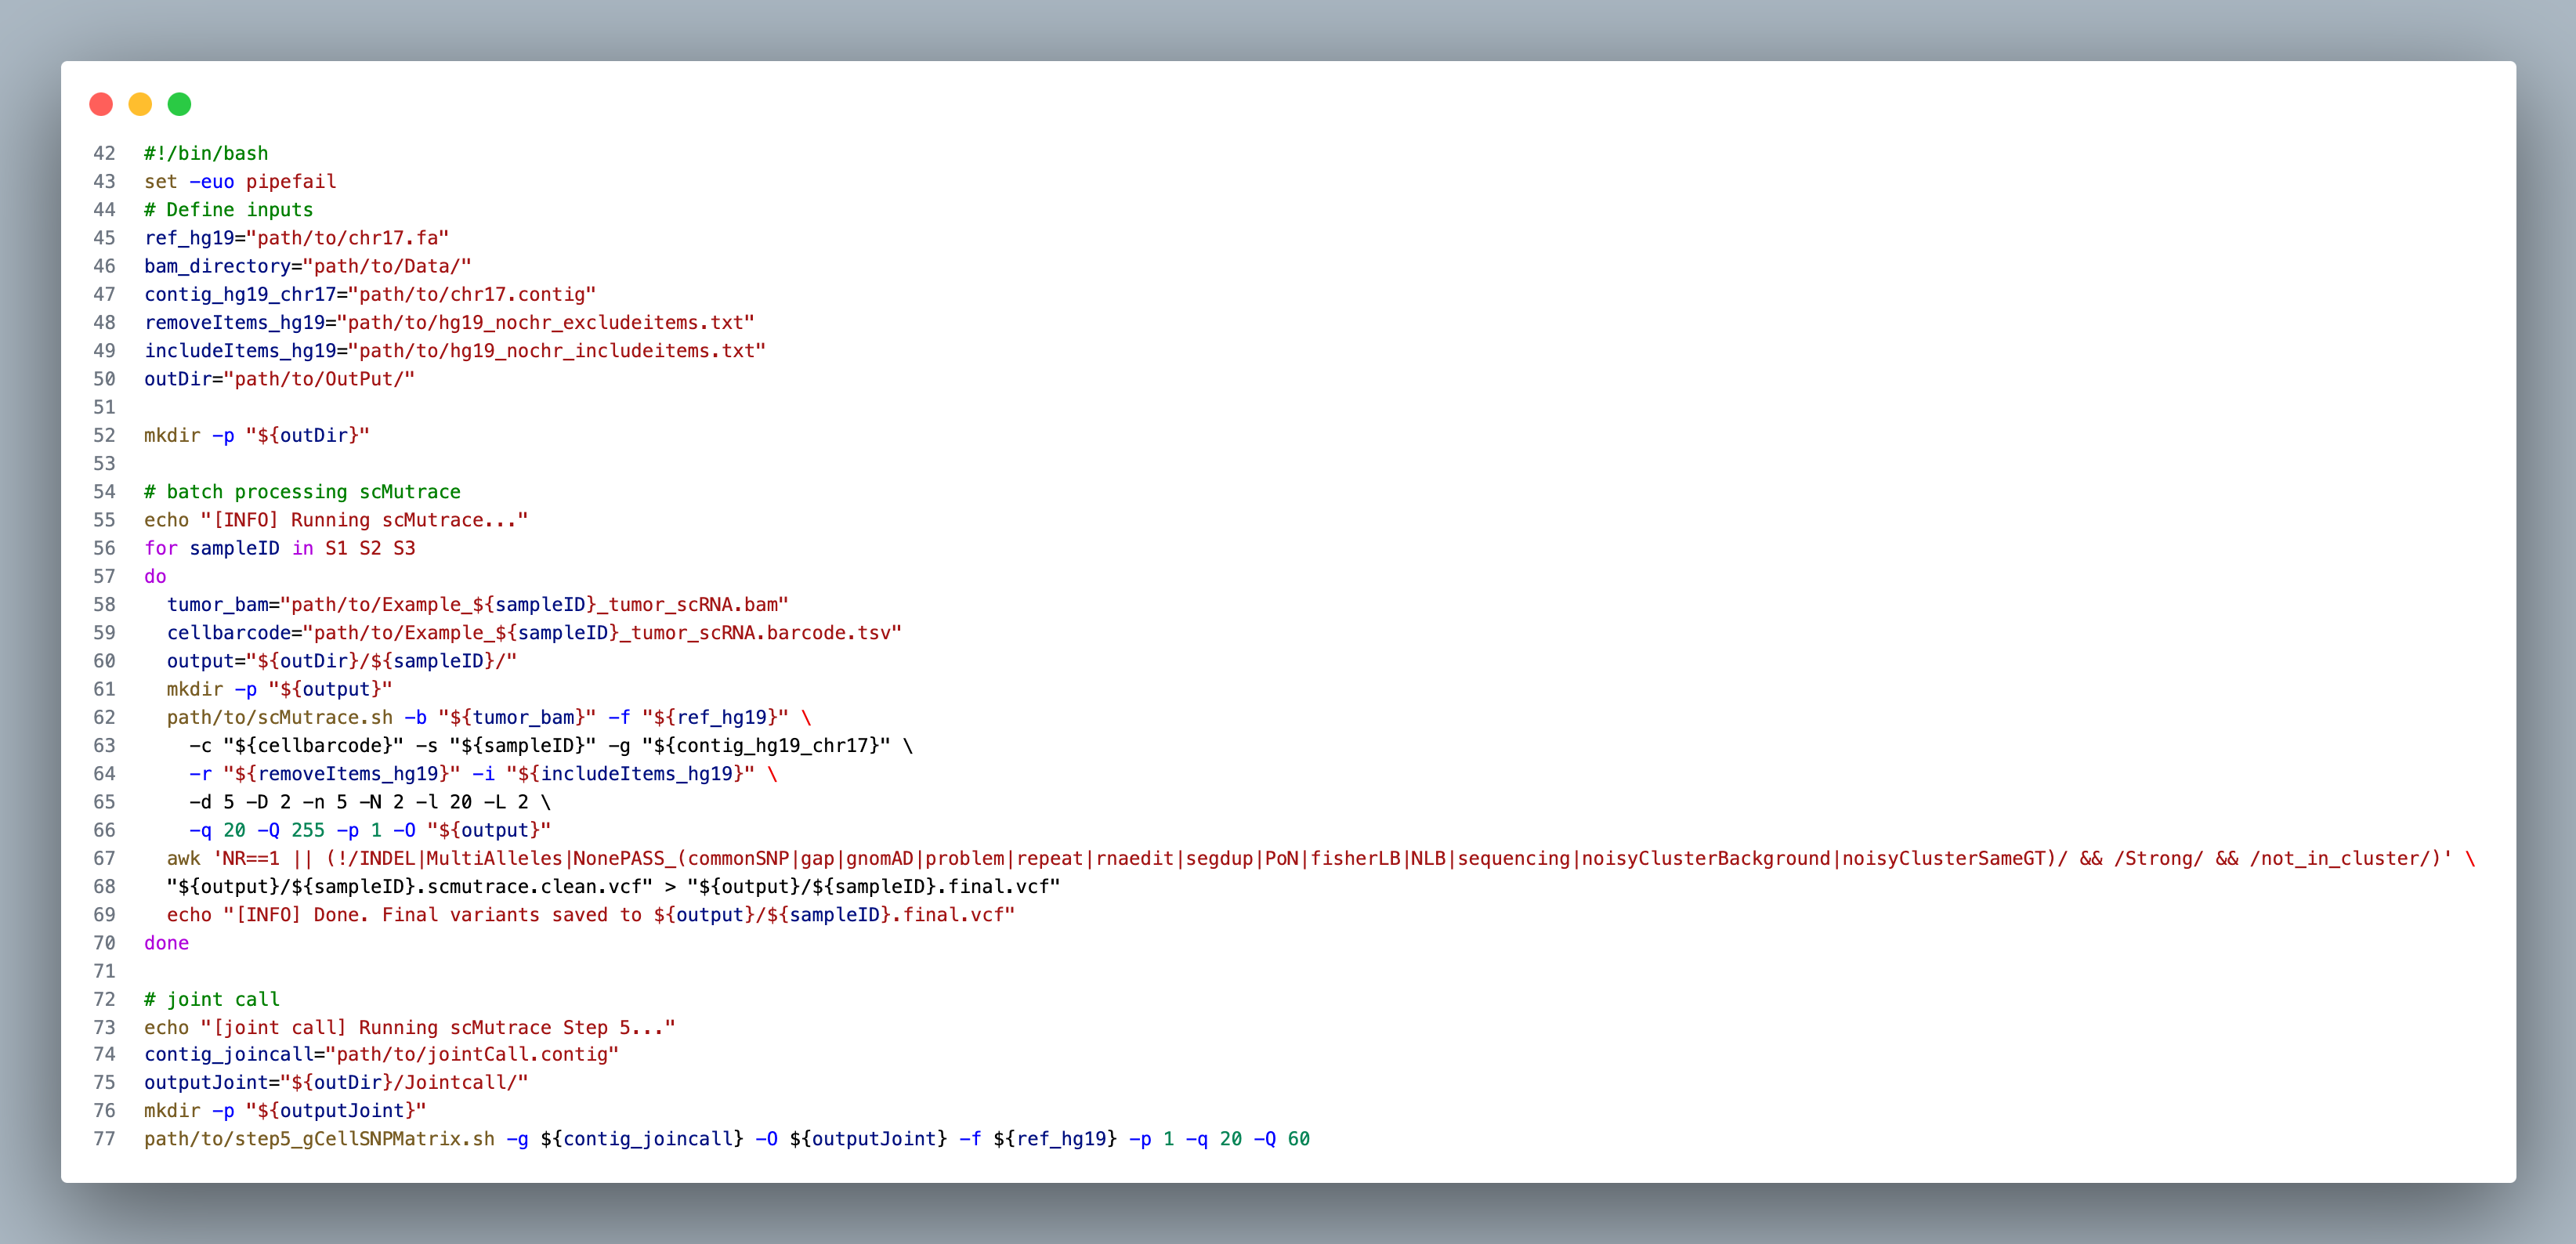
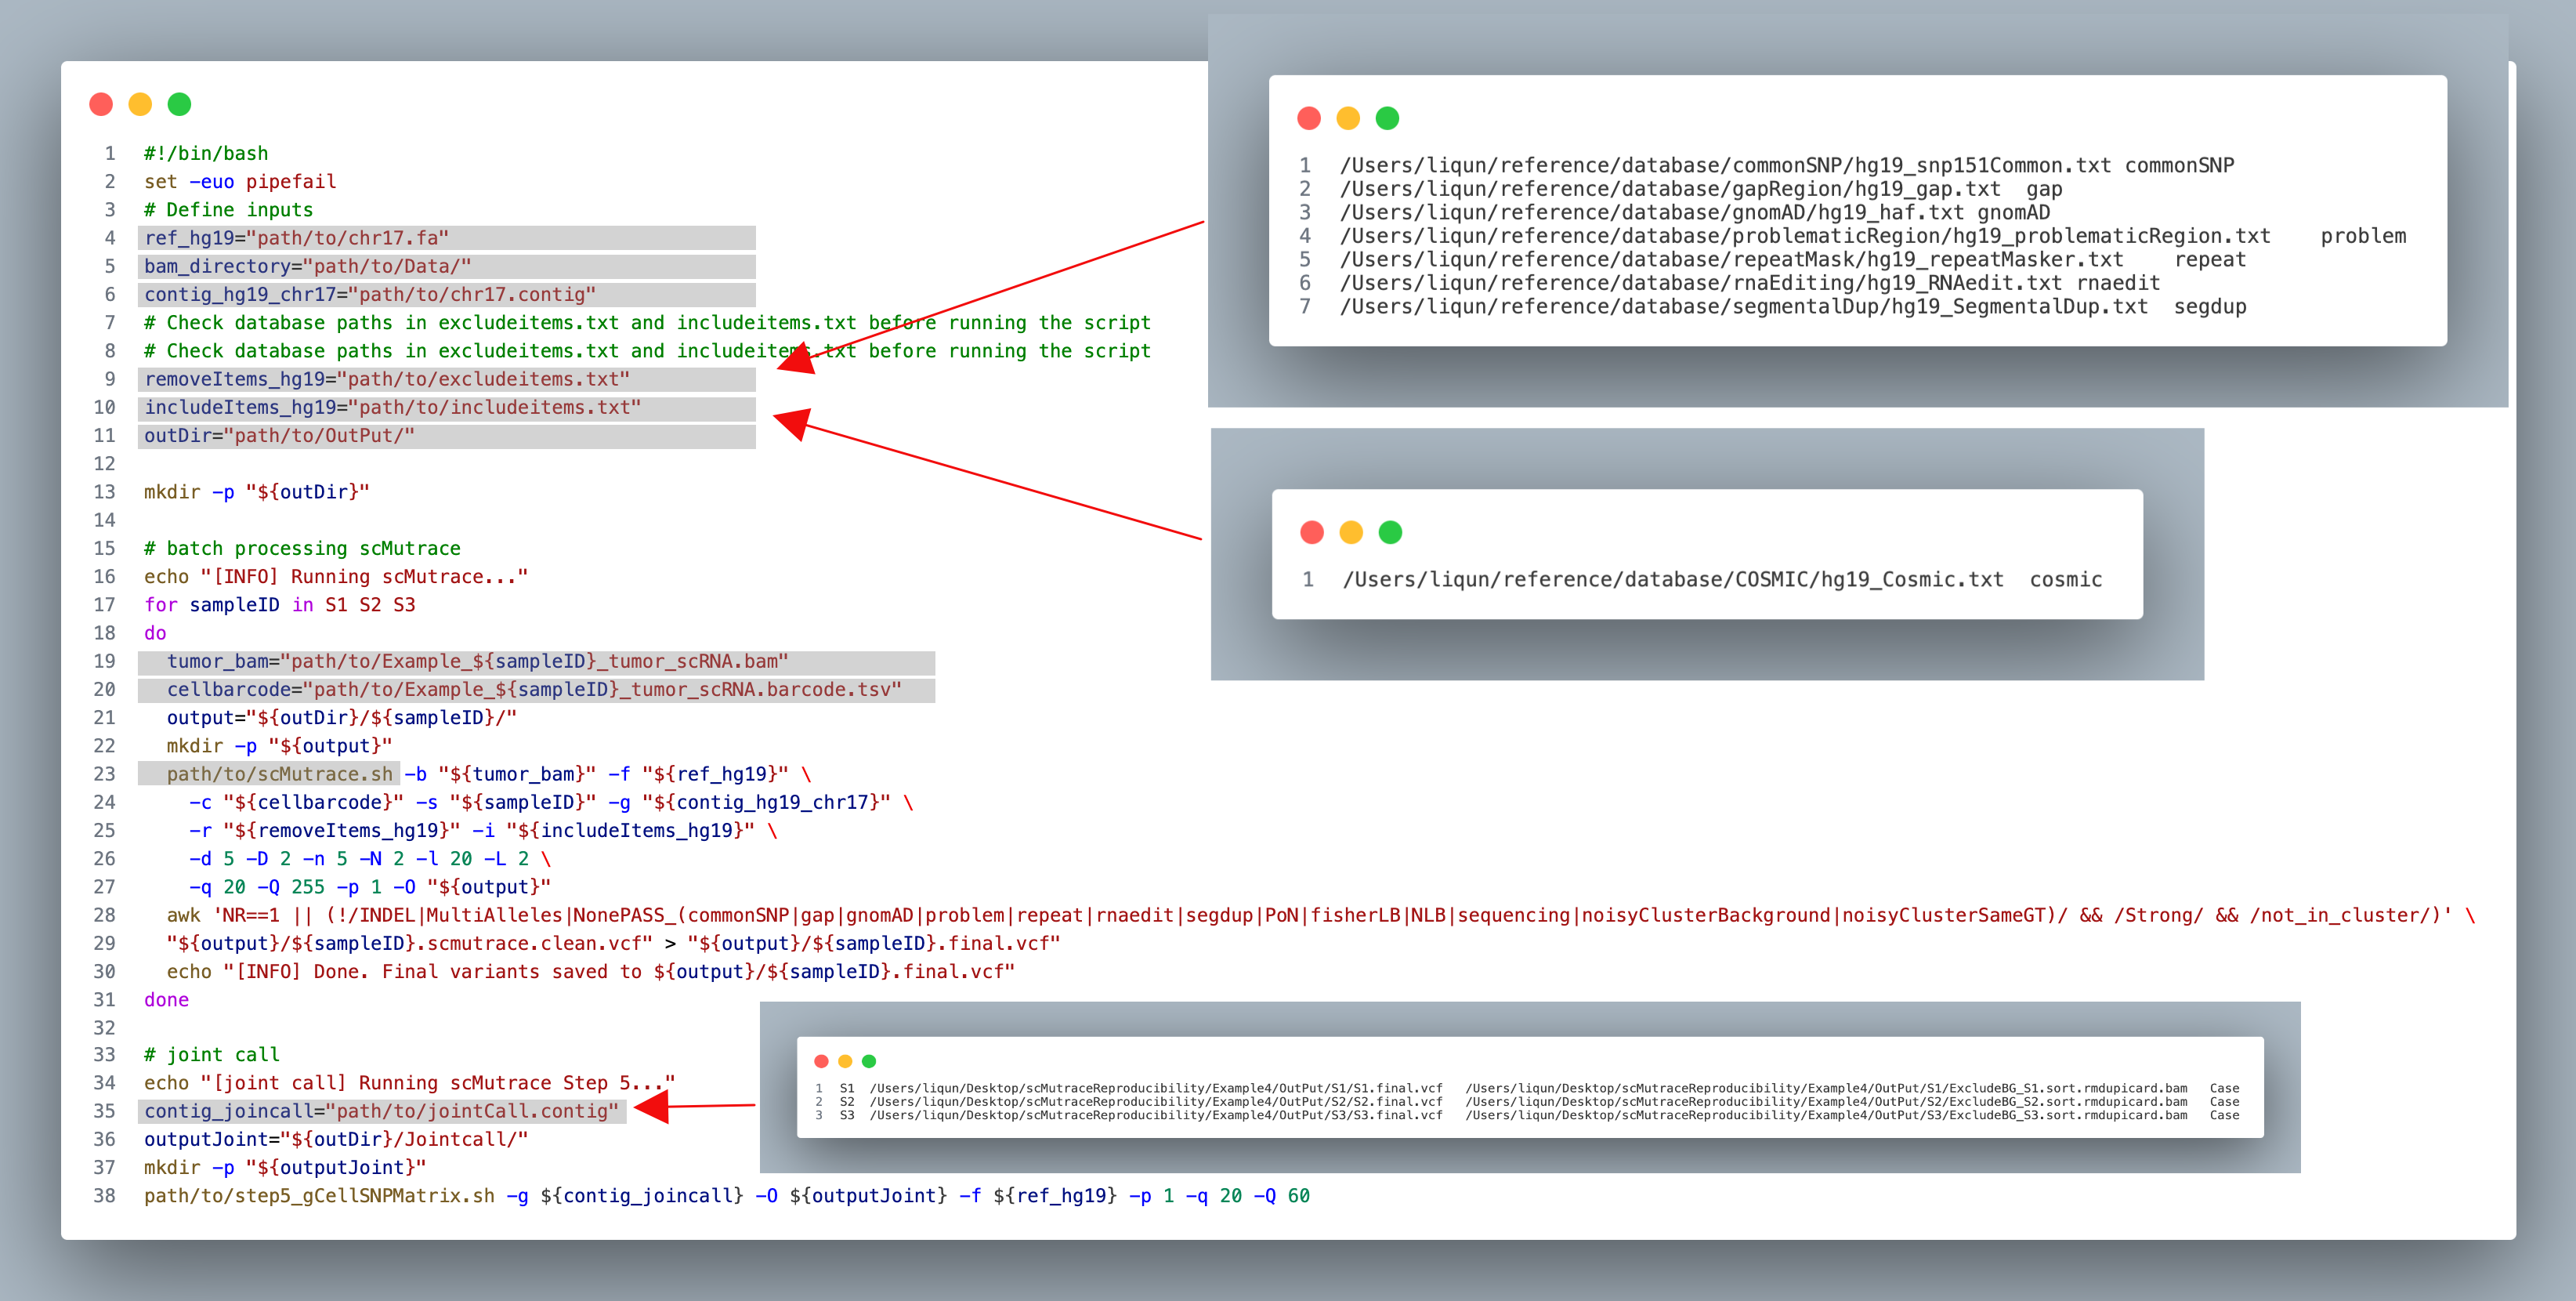
update path check highlights

Changed region(s): [[0.031, 0.0926, 0.9617, 0.9257], [0.4653, 0.0309, 0.9927, 0.5246], [0.031, 0.0617, 0.062, 0.0926]]

diff --git a/QuickStart/Example4/README.md b/QuickStart/Example4/README.md
@@ -38,6 +38,9 @@ https://github.com/QunATCG/scMutrace#installation
 conda activate scMutrace
 ```
 
+You must **replace the paths below with your own local paths** (shown here as examples and highlighted for clarity)
+![scMutrace code](../../Figures/Example4/Example4_code.png)
+
 ```bash
 #!/bin/bash
 set -euo pipefail
@@ -78,8 +81,6 @@ outputJoint="${outDir}/Jointcall/"
 mkdir -p "${outputJoint}"
 path/to/step5_gCellSNPMatrix.sh -g ${contig_joincall} -O ${outputJoint} -f ${ref_hg19} -p 1 -q 20 -Q 60
 ```
-
-![scMutrace code](../../Figures/Example4/Example4_code.png)
 
 > awk is a powerful Unix command-line tool—best thought of as a mini programming language—designed for text processing and data extraction. It splits each line into fields using a delimiter (default is any whitespace) and lets you define patterns to match and actions to execute when those patterns are met:
 [sed, awk, vmstat and nestat commands](https://www.youtube.com/watch?v=4hJorSKg9E0)